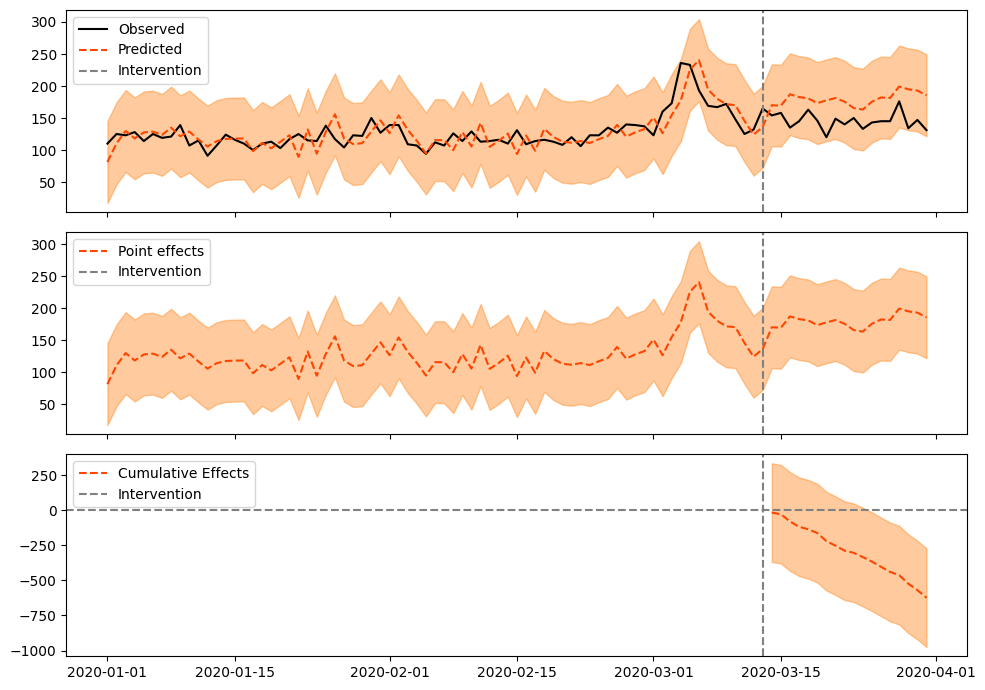
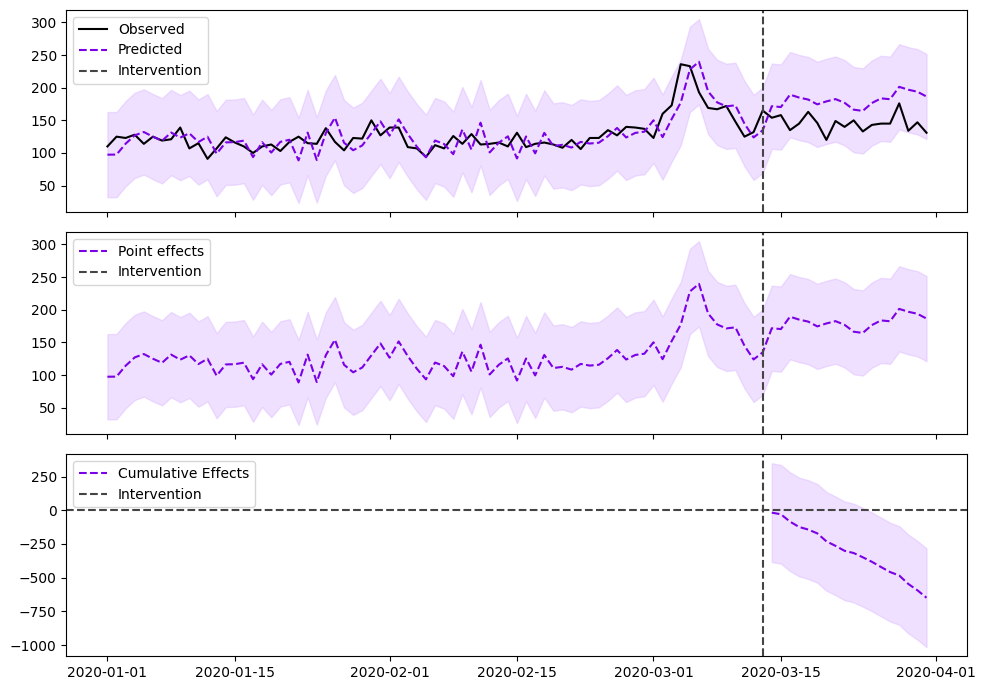
Updated color pallete and examples in readme file to match sanofi color

diff --git a/src/cimpact/models/base_model.py b/src/cimpact/models/base_model.py
@@ -65,46 +65,46 @@ class BaseModel(ABC):
 
     def plot(
         self,
-        combined_predictions=None,
-        observed_color="#000000",            # Sanofi's black
-        predicted_color="#7A00E6",           # Sanofi's purple
-        ci_color=(217/255, 179/255, 255/255, 0.4),  # Light purple with transparency for confidence interval
-        intervention_color="#444444",        # Dark gray for intervention line
-        figsize=(10, 7)
+        combined_predictions,
+        observed_color,           # Sanofi's black
+        predicted_color,          # Sanofi's purple
+        ci_color,                 # Light purple with transparency for confidence interval
+        intervention_color,       # Dark gray for intervention line
+        figsize
     ):
         """
         Function to plot the results with Sanofi brand color options.
 
-        Example Color Palettes:
+        Recommended Color Palettes:
 
         1. **Sanofi Brand Colors** (Purple and Black)
         observed_color: "#000000" (Black)
         predicted_color: "#7A00E6" (Sanofi purple)
-        ci_color: (217/255, 179/255, 255/255, 0.4) (Light lavender with transparency)
+        ci_color: "#D9B3FF66" (Light lavender with transparency)
         intervention_color: "#444444" (Dark gray)
 
         2. **Purple Theme**
         observed_color: "#6A0DAD" (Dark purple)
         predicted_color: "#9C27B0" (Medium purple)
-        ci_color: (230/255, 179/255, 230/255, 0.4) (Lavender with transparency)
+        ci_color: "#E6B3E666" (Lavender with transparency)
         intervention_color: "#8A2BE2" (Blue-purple)
 
         3. **Orange Theme**
         observed_color: "#FF4500" (Orange-red)
         predicted_color: "#FF8C00" (Dark orange)
-        ci_color: (255/255, 218/255, 185/255, 0.4) (Peach with transparency)
+        ci_color: "#FFDAB966" (Peach with transparency)
         intervention_color: "#D2691E" (Chocolate)
 
         4. **Blue Theme**
         observed_color: "#1E90FF" (Dodger blue)
         predicted_color: "#4682B4" (Steel blue)
-        ci_color: (176/255, 196/255, 222/255, 0.4) (Light steel blue with transparency)
+        ci_color: "#B0C4DE66" (Light steel blue with transparency)
         intervention_color: "#4169E1" (Royal blue)
 
         5. **Green Theme**
         observed_color: "#228B22" (Forest green)
         predicted_color: "#32CD32" (Lime green)
-        ci_color: (152/255, 251/255, 152/255, 0.4) (Pale green with transparency)
+        ci_color: "#98FB9866" (Pale green with transparency)
         intervention_color: "#006400" (Dark green)
         """
         if self.inferences is None:
@@ -126,11 +126,11 @@ class BaseModel(ABC):
             if panel == "original":
                 ax.plot(full_data.index, full_data, color=observed_color, label="Observed")
                 ax.plot(full_data.index, predicted_means, linestyle="--", color=predicted_color, label="Predicted")
-                ax.fill_between(full_data.index, ci_lower_full, ci_upper_full, color=ci_color, alpha=0.3)
+                ax.fill_between(full_data.index, ci_lower_full, ci_upper_full, color=ci_color)
             
             elif panel == "pointwise":
                 ax.plot(full_data.index, predicted_means, linestyle="--", color=predicted_color, label="Point effects")
-                ax.fill_between(full_data.index, ci_lower_full, ci_upper_full, color=ci_color, alpha=0.3)
+                ax.fill_between(full_data.index, ci_lower_full, ci_upper_full, color=ci_color)
             
             elif panel == "cumulative":
                 point_effects_post = self.post_data[self.target_col].values - predicted_means[-len(self.post_data):]
@@ -141,7 +141,6 @@ class BaseModel(ABC):
                     cumulative_effects - 1.96 * np.std(cumulative_effects),
                     cumulative_effects + 1.96 * np.std(cumulative_effects),
                     color=ci_color,
-                    alpha=0.3,
                 )
                 ax.axhline(y=0, color=intervention_color, linestyle="--")
 

diff --git a/src/cimpact/main.py b/src/cimpact/main.py
@@ -39,12 +39,23 @@ class CausalImpactAnalysis:
     pre_period = ['2019-04-16', '2019-07-14']
     post_period = ['2019-07-15', '2019-08-01']
 
+    # Define color variables
+    observed_color = "#000000"         # Black for observed
+    predicted_color = "#7A00E6"        # Sanofi purple for predicted
+    ci_color = "#D9B3FF66"             # Light lavender with transparency for CI
+    intervention_color = "#444444"     # Dark gray for intervention
+    figsize = (10,7)
+
     analysis = CausalImpactAnalysis(data,
                 pre_period,
                 post_period,
                 model_config,
                 index_col,
-                target_col
+                target_col,
+                observed_color, 
+                predicted_color,
+                ci_color, 
+                intervention_color
                 )
     result = analysis.run_analysis()
     print(result)
@@ -85,7 +96,18 @@ class CausalImpactAnalysis:
 
 
     #pylint: disable=too-many-instance-attributes, too-many-arguments
-    def __init__(self, data, pre_period, post_period, config, index_col, target_col):
+    def __init__(self, 
+                data, 
+                pre_period, 
+                post_period, 
+                config, 
+                index_col,
+                target_col, 
+                observed_color="#1E90FF", 
+                predicted_color="#FF4500",
+                ci_color="#FFDAB966", 
+                intervention_color="#8B0000",
+                figsize=(10, 7)):
         self.data = data
         self.pre_period = pre_period
         self.post_period = post_period
@@ -96,6 +118,11 @@ class CausalImpactAnalysis:
             [col for col in data.columns if col not in [index_col, target_col]]
         ]
         self.model = None
+        self.observed_color = observed_color
+        self.predicted_color = predicted_color
+        self.ci_color = ci_color
+        self.intervention_color = intervention_color
+        self.figsize = figsize
 
     def initialize_model(self):
         """
@@ -131,10 +158,11 @@ class CausalImpactAnalysis:
         summary = self.generate_summary(post_pred, forecast_dist)
         plot = self.model.plot(
                     combined_predictions,
-                    observed_color="#1E90FF",       # Dodger blue for observed
-                    predicted_color="#FF4500",      # Orange-red for predicted
-                    ci_color=(255/255, 223/255, 186/255, 0.4),  # Peach for confidence interval
-                    intervention_color="#8B0000"    # Dark red for intervention
+                    observed_color=self.observed_color,       # Dodger blue for observed
+                    predicted_color=self.predicted_color,      # Orange-red for predicted
+                    ci_color=self.ci_color,  # Peach for confidence interval
+                    intervention_color=self.intervention_color,    # Dark red for intervention
+                    figsize=self.figsize
                 )
         return summary, plot
 

diff --git a/src/cimpact/models/tensorflow_model.py b/src/cimpact/models/tensorflow_model.py
@@ -76,7 +76,6 @@ class TensorFlowModel(BaseModel):
                 self.samples, elbo_loss_curve = self.fit_with_vi(
                     pre_data[self.target_col]
                 )
-                print("ELBO Loss Curve:", elbo_loss_curve)
             else:
                 raise ValueError(f"Unsupported fit method: {fit_method}")
             print("Model fitting completed successfully.")
